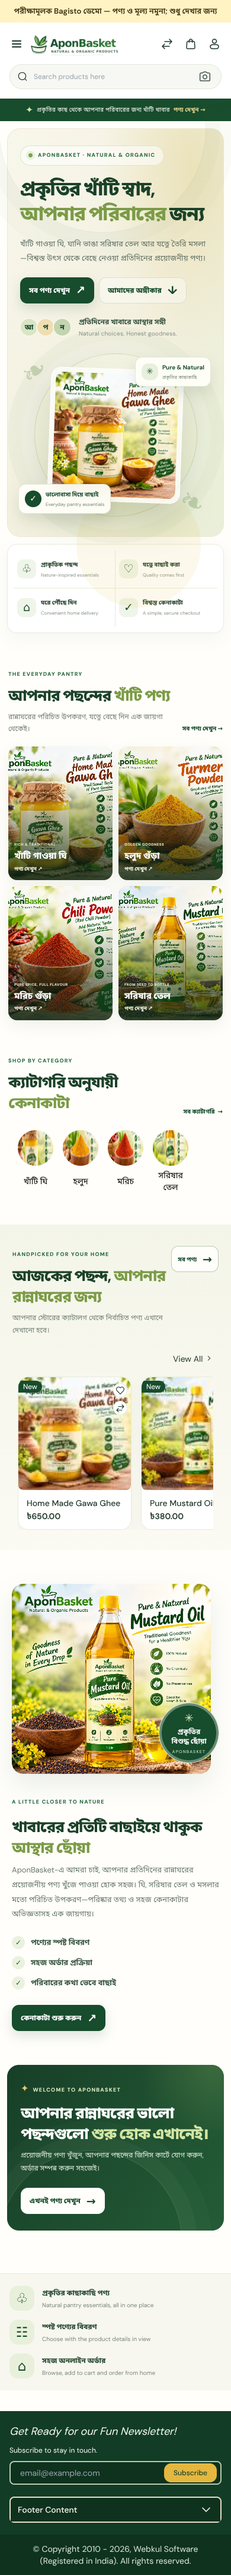
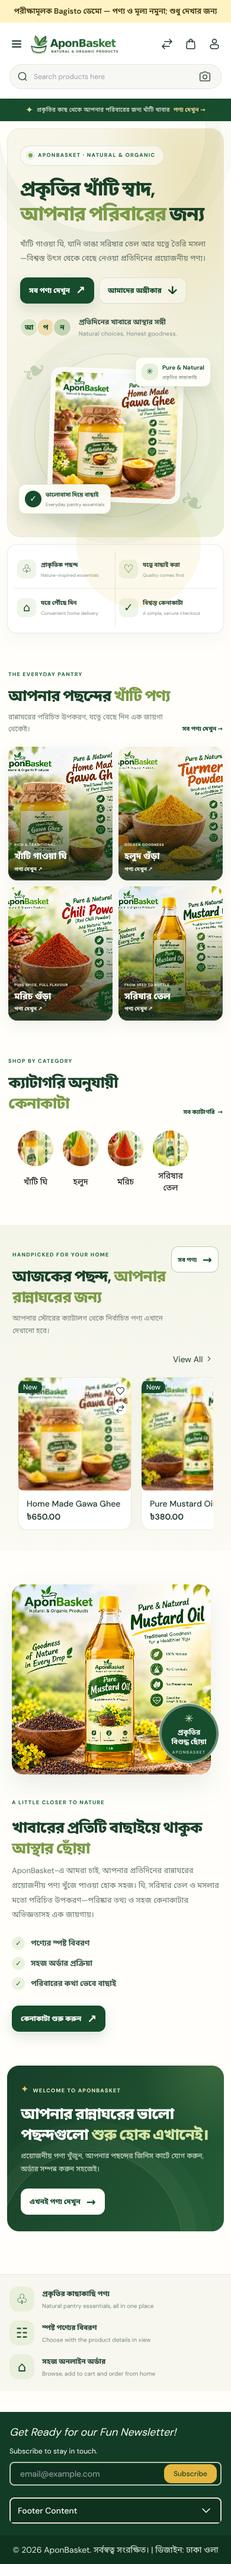
Credit AponBasket and Dhaka Ola in theme footer

Changed region(s): [[0.0, 0.031, 1.0, 1.0], [0.6462, 0.4347, 0.8, 0.4968], [0.5846, 0.4968, 0.6154, 0.5278]]

diff --git a/tests/Feature/AponBasketThemeTest.php b/tests/Feature/AponBasketThemeTest.php
@@ -115,6 +115,47 @@ final class AponBasketThemeTest extends AdminTestCase
             ->assertDontSee('ab-hero__copy', false);
     }
 
+    public function test_default_footer_credits_store_and_designer_on_storefront_pages(): void
+    {
+        $this->artisan('aponbasket:install', ['--channel' => $this->channel->code])->assertExitCode(0);
+        core()->setCurrentChannel($this->channel);
+
+        foreach ([route('shop.home.index'), route('shop.home.contact_us')] as $url) {
+            $this->get($url)
+                ->assertOk()
+                ->assertSee('© '.date('Y').' AponBasket.')
+                ->assertSee('সর্বস্বত্ব সংরক্ষিত।')
+                ->assertSee('ডিজাইন: ঢাকা ওলা')
+                ->assertDontSee('Webkul Software (Registered in India)');
+        }
+    }
+
+    public function test_footer_keeps_merchant_copyright_setting_and_sanitizes_it(): void
+    {
+        $this->artisan('aponbasket:install', ['--channel' => $this->channel->code])->assertExitCode(0);
+        core()->setCurrentChannel($this->channel);
+        DB::table('core_config')->insert([
+            'code' => 'general.content.footer.copyright_content',
+            'value' => 'নিজস্ব কপিরাইট <script>alert(42)</script> {{ 7 * 7 }}',
+            'channel_code' => $this->channel->code,
+            'locale_code' => $this->locale,
+        ]);
+
+        $this->get(route('shop.home.index', ['channel' => $this->channel->code, 'locale' => $this->locale]))
+            ->assertOk()
+            ->assertSee('নিজস্ব কপিরাইট')
+            ->assertDontSee('ডিজাইন: ঢাকা ওলা')
+            ->assertDontSee('<script>alert(42)</script>', false)
+            ->assertDontSee('{{ 7 * 7 }}', false)
+            ->assertSee('<span v-pre>', false);
+
+        $other = Channel::factory()->create(['theme' => Defaults::THEME]);
+        core()->setCurrentChannel($other);
+        $this->get(route('shop.home.index', [
+            'channel' => $other->code, 'locale' => $other->locales->firstOrFail()->code,
+        ]))->assertOk()->assertSee('ডিজাইন: ঢাকা ওলা')->assertDontSee('নিজস্ব কপিরাইট');
+    }
+
     public function test_order_and_visibility_are_drafted_then_published(): void
     {
         $this->artisan('aponbasket:install', ['--channel' => $this->channel->code])->assertExitCode(0);
@@ -153,7 +194,9 @@ final class AponBasketThemeTest extends AdminTestCase
 
         $this->get(route('shop.home.index'))
             ->assertOk()
-            ->assertDontSee('themes/shop/aponbasket/css/aponbasket.css', false);
+            ->assertDontSee('themes/shop/aponbasket/css/aponbasket.css', false)
+            ->assertSee('Webkul Software (Registered in India)')
+            ->assertDontSee('ডিজাইন: ঢাকা ওলা');
     }
 
     public function test_bengali_editor_font_is_scoped_to_aponbasket_sections(): void

diff --git a/resources/themes/aponbasket/views/components/layouts/footer/copyright.blade.php b/resources/themes/aponbasket/views/components/layouts/footer/copyright.blade.php
@@ -1,0 +1,10 @@
+{{-- Keep Bagisto's channel/locale-aware copyright setting authoritative. --}}
+@php($copyrightContent = core()->getConfigData('general.content.footer.copyright_content'))
+
+<span v-pre>
+    @if ($copyrightContent)
+        {!! clean_content((string) $copyrightContent) !!}
+    @else
+        © {{ date('Y') }} AponBasket. সর্বস্বত্ব সংরক্ষিত। <span aria-hidden="true">|</span> ডিজাইন: ঢাকা ওলা
+    @endif
+</span>

diff --git a/tests/standalone/blade.php b/tests/standalone/blade.php
@@ -77,7 +77,7 @@ namespace {
         }
         $count++;
     }
-    check($count === 12, 'Expected twelve theme views');
+    check($count === 13, 'Expected thirteen theme views');
 
     // Render an actual compiled partial: dynamic text is escaped and unsafe URLs
     // are omitted even if a malformed value somehow reaches the view.

diff --git a/app/AponBasket/Theme/Defaults.php b/app/AponBasket/Theme/Defaults.php
@@ -10,7 +10,7 @@ final class Defaults
 {
     public const THEME = 'aponbasket';
 
-    public const VERSION = '2.0.1';
+    public const VERSION = '2.0.2';
 
     private const IMAGES = 'themes/shop/aponbasket/images/';
 

diff --git a/README-BN.md b/README-BN.md
@@ -1,6 +1,6 @@
 # AponBasket Organic — সম্পাদনাযোগ্য Bagisto থিম
 
-**সংস্করণ: 2.0.1** · থিম কোড: `aponbasket`
+**সংস্করণ: 2.0.2** · থিম কোড: `aponbasket`
 
 আপনার দেওয়া AponBasket v1.1 ডিজাইনের রং, ছবি, লেখা ও বিন্যাসকে ভিত্তি করে তৈরি এই সংস্করণে হোমপেজের অংশগুলো Bagisto-এর নিজস্ব **Appearance → Themes → Customize** সম্পাদক থেকে বদলানো যায়। পণ্য ও ক্যাটাগরি আসল Bagisto ক্যাটালগ থেকে আসে; এই প্যাকেজ কোনো নমুনা পণ্য বা দাম আপনার ডেটাবেজে ঢোকায় না। Bagisto core package ফাইল পরিবর্তন করা হয়নি।
 
@@ -89,6 +89,12 @@ php artisan optimize:clear
 - পণ্যের নাম, ছবি, মূল্য, stock, category ও channel assignment **Catalog** থেকে আসে, theme editor থেকে নয়। Header/menu/logo-এর তথ্য Bagisto settings/catalog থেকে আসে; checkout Bagisto-এরই থাকে। রং, নতুন layout বা নতুন ধরনের সম্পূর্ণ section বানাতে এখনো developer-এর CSS/Blade/PHP কাজ প্রয়োজন—এটি একটি editable foundation, সর্বক্ষেত্রে no-code page builder নয়।
 - Link-এ `/search`, `search?query=ghee`, `#ab-our-promise` বা সম্পূর্ণ `https://...` ব্যবহার করা যায়। বদলানোর পরে destination কাজ করছে কি না যাচাই করুন। Image file, image alt text এবং desktop/mobile crop নিজে দেখে নিন।
 
+### নিচের কপিরাইট ও ডিজাইনারের নাম
+
+Copyright Content খালি থাকলে AponBasket থিমের footer-এ `© বর্তমান বছর AponBasket. সর্বস্বত্ব সংরক্ষিত। | ডিজাইন: ঢাকা ওলা` দেখায়; বছরটি স্বয়ংক্রিয়ভাবে পরিবর্তিত হয়। শুধু storefront-এর এই লেখা বদলায়—Bagisto সফটওয়্যারের মূল লাইসেন্স বা source copyright notice মুছে ফেলা হয় না।
+
+লেখাটি নিজের মতো পরিবর্তন করতে Admin → **Configure → General → Content → Copyright Content**-এ সঠিক channel ও locale বেছে পুরো লেখাটি লিখে Save করুন। আগে থেকে কোনো copyright content সেট থাকলে সেটিই অগ্রাধিকার পাবে; update কোনো existing setting overwrite করে না। নিজস্ব লেখা ব্যবহার করলে সেখানে ডিজাইনারের নামও নিজে লিখতে হবে, এবং লিখে দেওয়া বছর স্বয়ংক্রিয়ভাবে বদলাবে না।
+
 ## সমস্যা হলে
 
 - **Theme/command দেখা যাচ্ছে না:** সঠিক Bagisto version ও `bootstrap/providers.php` entry দেখুন, `php artisan optimize:clear` চালান।
@@ -105,7 +111,7 @@ Provider সরানো, migration rollback বা database table/marker মু
 
 ## পরীক্ষার তথ্য ও সীমাবদ্ধতা
 
-- Bagisto 2.4.13 এবং 2.5.0-এ PHP 8.4 দিয়ে পৃথক integration suite: **৮টি test, ৮৩টি assertion** প্রতিটিতে। Installer preservation, theme isolation, native editor fields/draft/upload/preview/publish এবং reorder/status পরীক্ষা করা হয়েছে।
+- Bagisto 2.4.13 এবং 2.5.0-এ PHP 8.4 দিয়ে পৃথক integration suite: **১০টি test, ১০৬টি assertion** প্রতিটিতে। Installer preservation, theme isolation, footer default ও custom setting, native editor fields/draft/upload/preview/publish এবং reorder/status পরীক্ষা করা হয়েছে।
 - Bagisto 2.4.13/PHP 8.3-এ GD ছাড়া পরীক্ষার জন্য upload test বাদে বাকি tests চালানো হয়েছে। Bagisto 2.5-এর একটি বিচ্ছিন্ন browser test-এ editor থেকে Bengali text ও ছবি বদলে preview, publish ও storefront ফলও যাচাই করা হয়েছে। Desktop/mobile storefront-এ responsive layout ও image loading smoke-tested।
 - পরীক্ষামূলক ডেটাবেজ ছিল SQLite; upstream Bagisto migrations/seeder চালাতে শুধু test environment-এ SQLite compatibility adjustments দরকার হয়েছিল। এগুলো এই প্যাকেজে নেই। **MySQL/MariaDB, আপনার live site, payment ও বাস্তব checkout end-to-end পরীক্ষা করা হয়নি।** Production-এ নিশ্চিত করতে আপনার নিজের staging-এ সেসব পরীক্ষা আবশ্যক।
 
